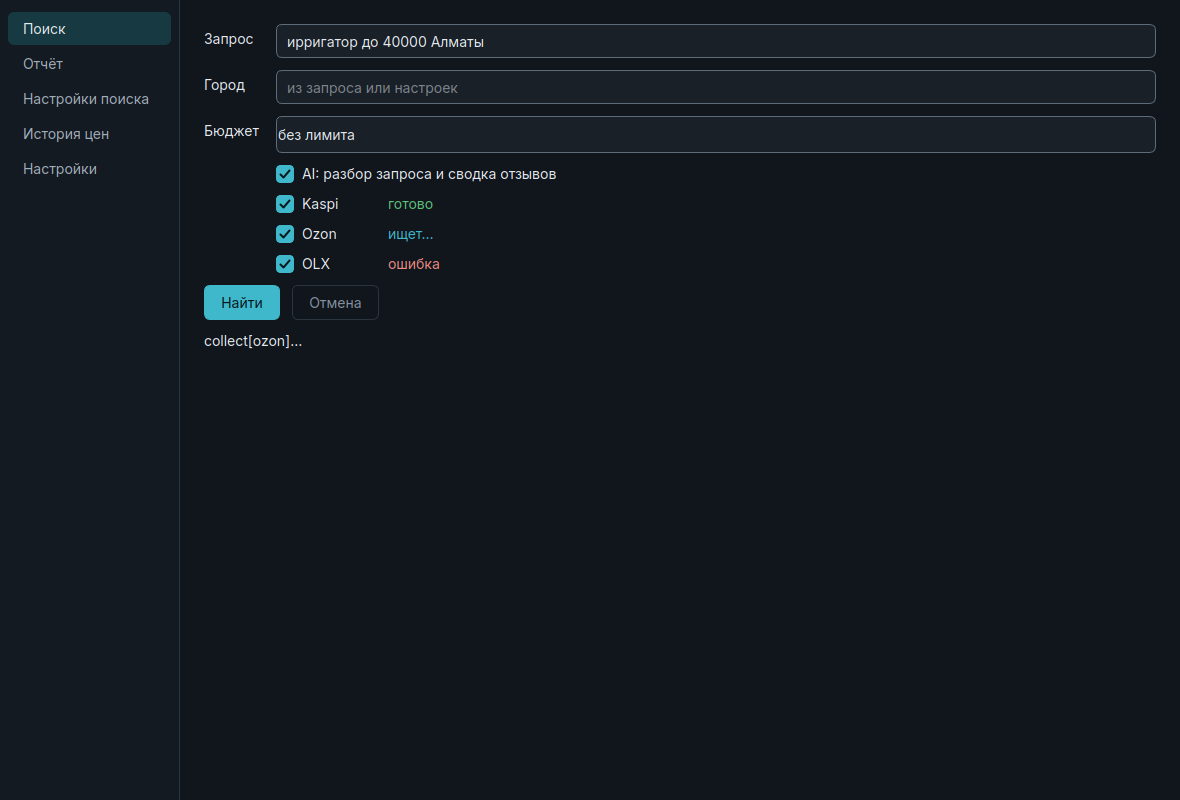
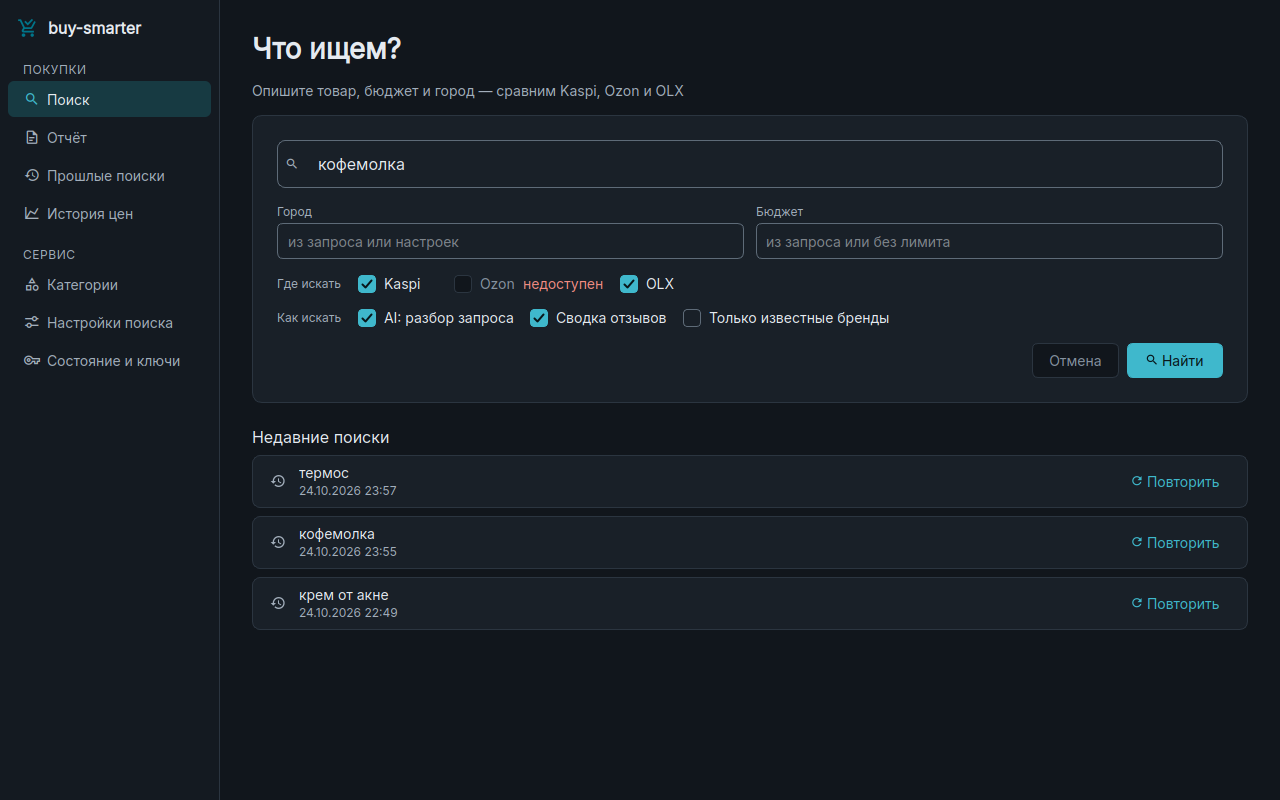
feat: «Категории» cancels a running learn and says when the store fails
Screenshots seed two categories and grab the picked one's summary and switches;
who updated a record is said in words. Desktop screenshots of the search form
with its new options and of «Категории», light and dark.

Claude-Session: https://claude.ai/code/session_01U3d2Nmu8bUKUXVqDCgdXtr

diff --git a/scripts/screenshots.py b/scripts/screenshots.py
@@ -3,7 +3,8 @@
     uv run python scripts/screenshots.py OUT_DIR   ->  OUT_DIR/light/*.png, OUT_DIR/dark/*.png
 
 Runs offscreen on the self-test's temp store, with a copy of the saved reports so «Прошлые
-поиски» has content; the user's own files are never written. CI uploads the result.
+поиски» has content and two sample categories for «Категории»; the user's own files are never
+written. CI uploads the result.
 buysmarter is imported inside the functions: the store and Settings read the environment at import.
 """
 
@@ -59,6 +60,7 @@ def _grab_all(out: Path) -> None:
     apply_theme(app)
     runner = CoreRunner()
     try:
+        runner.submit(_seed_categories())
         window = MainWindow(runner)
         window.resize(*_SIZE)
         window.show()
@@ -100,6 +102,7 @@ def _grab_screens(window: object, settle: Callable[[], None], out: Path) -> None
         print(name)
     _grab_clarification(window, settle, out)
     _grab_learning(window, settle, out)
+    _grab_category(window, settle, out)
 
 
 def _grab_clarification(window: object, settle: Callable[[], None], out: Path) -> None:
@@ -139,6 +142,45 @@ def _grab_learning(window: object, settle: Callable[[], None], out: Path) -> Non
     search._learning_for = None
     search._set_running(False)
     print("learning.png")
+
+
+async def _seed_categories() -> None:
+    """A spec-driven category and a composition one, for the «Категории» screen."""
+    from buysmarter.knowledge.brands import BrandBook
+    from buysmarter.knowledge.ingredients import ActiveSubstance, EquivalentProduct, IngredientBook
+    from buysmarter.knowledge.models_book import ModelBook, ModelEntry
+    from buysmarter.knowledge.store import save_knowledge, set_user_choice
+
+    tiers = {"Roborock": "A", "Dreame": "A", "Ecovacs": "B", "Xiaomi": "B", "Polaris": "C"}
+    models = [ModelEntry(canonical="Roborock S8", brand="Roborock", codes=["S8"])]
+    await save_knowledge("робот-пылесос", BrandBook(tiers=tiers), ModelBook(entries=models), "opus")
+    await set_user_choice("робот-пылесос", "used_market", False)
+    adapalene = ActiveSubstance(
+        canonical="адапален",
+        typical_concentrations=["0.1%", "0.3%"],
+        equivalents=[EquivalentProduct(name="Клензит", concentration="0.1%")],
+    )
+    await save_knowledge(
+        "крем-от-акне",
+        BrandBook(tiers={"La Roche-Posay": "A", "Bioderma": "B"}),
+        ModelBook(),
+        "sonnet",
+        category_type="composition_driven",
+        ingredient_book=IngredientBook(substances=[adapalene]),
+    )
+
+
+def _grab_category(window: object, settle: Callable[[], None], out: Path) -> None:
+    """«Категории» with a category picked, scrolled to its summary and switches."""
+    window._show_screen(window.categories)
+    settle()
+    window.categories.table.selectRow(1)  # робот-пылесос: a switch set by the user
+    settle()
+    page = window.stack.currentWidget()  # the screen's scroll area: its lower half
+    page.verticalScrollBar().setValue(page.verticalScrollBar().maximum())
+    settle()
+    window.grab().save(str(out / "category.png"))
+    print("category.png")
 
 
 def _pump(app: object, runner: object, seconds: float) -> None:

diff --git a/src/buysmarter/gui/screens/categories.py b/src/buysmarter/gui/screens/categories.py
@@ -123,11 +123,15 @@ class CategoriesScreen(QWidget):
         self.learn_button.clicked.connect(self._learn)
         self.notes_button = QPushButton(NOTES_TEXT)
         self.notes_button.clicked.connect(self._learn_notes)
+        self.cancel_button = QPushButton("Отмена")
+        self.cancel_button.clicked.connect(lambda: self.learning.cancel(self.name.text().strip()))
+        self.cancel_button.hide()
         row = QHBoxLayout()
         row.setSpacing(SPACE["md"])
         row.addWidget(self.name, 1)
         row.addWidget(self.learn_button)
         row.addWidget(self.notes_button)
+        row.addWidget(self.cancel_button)
         return row
 
     def _build_list(self) -> QGroupBox:
@@ -152,7 +156,9 @@ class CategoriesScreen(QWidget):
 
     def reload(self) -> None:
         """Read the stored categories again (on show and after a learn)."""
-        self._runner.submit(stored_rows()).finished.connect(self._fill)
+        job = self._runner.submit(stored_rows())
+        job.finished.connect(self._fill)
+        job.failed.connect(self.status.setText)  # USER_ERROR: the details are in the log
 
     def _fill(self, rows: list[CategoryRow]) -> None:
         self._names = {row.name for row in rows}
@@ -178,6 +184,7 @@ class CategoriesScreen(QWidget):
     def _load(self, name: str) -> None:
         self._shown = name
         job = self._runner.submit(category_detail(name))
+        job.failed.connect(self.status.setText)
         job.finished.connect(lambda detail: self._show(name, detail))
 
     def _show(self, name: str, detail: CategoryDetail | None) -> None:
@@ -253,3 +260,4 @@ class CategoriesScreen(QWidget):
         busy = self.learning.running(name)
         self.learn_button.setEnabled(not busy)
         self.notes_button.setEnabled(not busy)
+        self.cancel_button.setVisible(busy)

diff --git a/tests/gui/test_categories.py b/tests/gui/test_categories.py
@@ -140,3 +140,35 @@ def test_no_file_picked_or_no_name_learns_nothing(qtbot, runner, monkeypatch) ->
     qtbot.wait(100)
     assert calls == []
     assert screen.status.text() == screen_module.NO_NAME
+
+
+def test_a_running_learn_can_be_cancelled(qtbot, runner, monkeypatch) -> None:
+    from buysmarter.gui.learning import LEARN_CANCELLED
+
+    async def _forever(category, *, web_search=True):
+        import asyncio
+
+        await asyncio.Event().wait()
+
+    monkeypatch.setattr(screen_module, "learn_category", _forever)
+    screen = _screen(qtbot, runner)
+    screen.name.setText("кофемашина")
+    assert screen.cancel_button.isHidden()
+
+    screen.learn_button.click()
+    qtbot.waitUntil(lambda: not screen.cancel_button.isHidden(), timeout=_WAIT_MS)
+    screen.cancel_button.click()
+
+    qtbot.waitUntil(lambda: screen.status.text() == LEARN_CANCELLED, timeout=_WAIT_MS)
+    assert screen.cancel_button.isHidden()
+    assert screen.learn_button.isEnabled()
+
+
+def test_a_store_that_cannot_be_read_is_said(qtbot, runner, monkeypatch) -> None:
+    async def _down():
+        raise OSError("disk detail")
+
+    monkeypatch.setattr(screen_module, "stored_rows", _down)
+    screen = _screen(qtbot, runner)
+
+    qtbot.waitUntil(lambda: screen.status.text() == USER_ERROR, timeout=_WAIT_MS)

diff --git a/src/buysmarter/cli/category.py b/src/buysmarter/cli/category.py
@@ -41,6 +41,14 @@ from buysmarter.ranking.models import QueryConstraints
 
 NOTHING_LEARNED = "Изученных категорий нет: buysmarter learn-category КАТЕГОРИЯ."
 NOT_LEARNED = "Категория «{name}» ещё не изучена: buysmarter learn-category {name}"
+# Who wrote the record, in words; a model name ("opus", "sonnet") is shown as is.
+_WRITERS = {
+    "user": "вы",
+    "auto-learn": "автообучение",
+    "jev": "Jev",
+    "knowledge-heal": "исправление записи",
+    "knowledge-rename": "переименование",
+}
 HEADERS = ("Категория", "Книги", "Родитель", "Обновлено")
 
 CategoryCapability = StrEnum(  # type: ignore[misc]
@@ -74,7 +82,8 @@ def _books(profile: CategoryProfile) -> str:
 
 def category_row(slug: str, raw: dict[str, Any]) -> CategoryRow:
     profile = profile_from_record(slug, raw)
-    stamp = (raw.get("updated_by"), str(raw.get("updated_at") or "")[:10])  # the date only
+    writer = str(raw.get("updated_by") or "")
+    stamp = (_WRITERS.get(writer, writer), str(raw.get("updated_at") or "")[:10])  # date only
     updated = ", ".join(filter(None, stamp))
     return CategoryRow(
         slug, _books(profile), f"из {profile.parent}" if profile.parent else "", updated

diff --git a/tests/cli/test_category.py b/tests/cli/test_category.py
@@ -43,7 +43,7 @@ def test_list_names_each_stored_category_with_its_books_and_parent() -> None:
     assert "робот-пылесос" in out and "моющий-робот" in out
     assert "бренды 2, модели 1" in out
     assert "из робот-пылесос" in out
-    assert "user, 20" in out  # who, then the date
+    assert "вы, 20" in out  # who, then the date
 
 
 def test_list_says_so_when_nothing_is_learned() -> None:

diff --git a/docs/plans/2026-10-25-search-options-and-categories.md b/docs/plans/2026-10-25-search-options-and-categories.md
@@ -79,7 +79,7 @@
 | 6 | ✅ Итог знаний и обучение из заметок без CLI (решение 5) | `cli/report.py`, `cli/main.py`, `knowledge/generate.py` | Проверки тестов `learn` и `learn-category` без изменений (патч `extract_category_knowledge` теперь на модуле `generate`); `knowledge_rows` — тиры и вещества в порядке консоли |
 | 7 | ✅ `buysmarter category list/show/set/reset` (пп. 11 для CLI, 13; В6) | `cli/category.py`, `gui/capability_toggles.py` (тексты — общие константы) | `tests/cli/test_category.py`: список с книгами и родителем; `show` без обучения; `set`/`reset` пишут `set_user_choice` и говорят «Изменения сработают при следующем поиске»; неизвестная capability или уровня «request» — отказ со списком допустимых |
 | 8 | ✅ Экран «Категории» (п. 11; В7–В9) | `gui/screens/categories.py`, `gui/app.py`, `gui/capability_toggles.py` | `tests/gui/test_categories.py` (pytest-qt): список; выбор показывает итог и переключатели без «Повторить поиск»; «Изучить» зовёт `learn_category_knowledge(web=…)` и обновляет итог; сбой — причина без внутренностей; «Из заметок…» с фейковым выбором файла |
-| 9 | Скриншоты экрана «Категории» и формы поиска с флажками, светлая и тёмная тема; чек-лист `~/dev/docs/GUI/qt-desktop-guide.md` | `scripts/screenshots.py` | — |
+| 9 | ✅ Скриншоты экрана «Категории» и формы поиска с флажками, светлая и тёмная тема; чек-лист `~/dev/docs/GUI/qt-desktop-guide.md` (по нему добавлены «Отмена» во время изучения и сообщение о сбое хранилища; тексты — константы модуля, как на других экранах; `--self-test` ok; снимки — `docs/screenshots/desktop/*-categories.png`, `*-search.png`) | `scripts/screenshots.py`, `gui/screens/categories.py` | `tests/gui/test_categories.py`: отмена, сбой хранилища |
 | 10 | Документы | карта EN + RU (входы CLI и GUI, шаг 3 — настройки); README EN + RU (команды `prefs`, `category`, экран); CHANGELOG; сверка (пп. ✅); `CONTEXT.md`, если появятся термины | `tests/test_logic_map.py` |
 | 11 | Живой прогон | — | — |
 

diff --git a/CHANGELOG.md b/CHANGELOG.md
@@ -8,7 +8,8 @@ Format: [Keep a Changelog](https://keepachangelog.com/en/1.1.0/). Versions follo
 - The desktop app's «Категории» screen (Сервис, first): the learned categories with their books, parent
   and last update; the picked one's brand tiers, counts, substances and «Как оцениваем эту категорию»
   switches; learning a new or learned category with or without web search, or from a notes file, as
-  `learn-category` and `learn` (CLI ↔ GUI parity #11). A learn by hand is not counted in the hourly limit.
+  `learn-category` and `learn` (CLI ↔ GUI parity #11), and «Отмена» while it runs. A learn by hand is not
+  counted in the hourly limit. Who updated a record is said in words («вы», «автообучение»), in `category list` too.
 - The CLI's knowledge summary after `learn`, `learn-category` and `category show` is in Russian, as the screen.
 - `buysmarter category list|show|set|reset`: the learned categories with their books, parent and last
   update, a category's knowledge summary, and the «Как оцениваем эту категорию» switches the app shows
